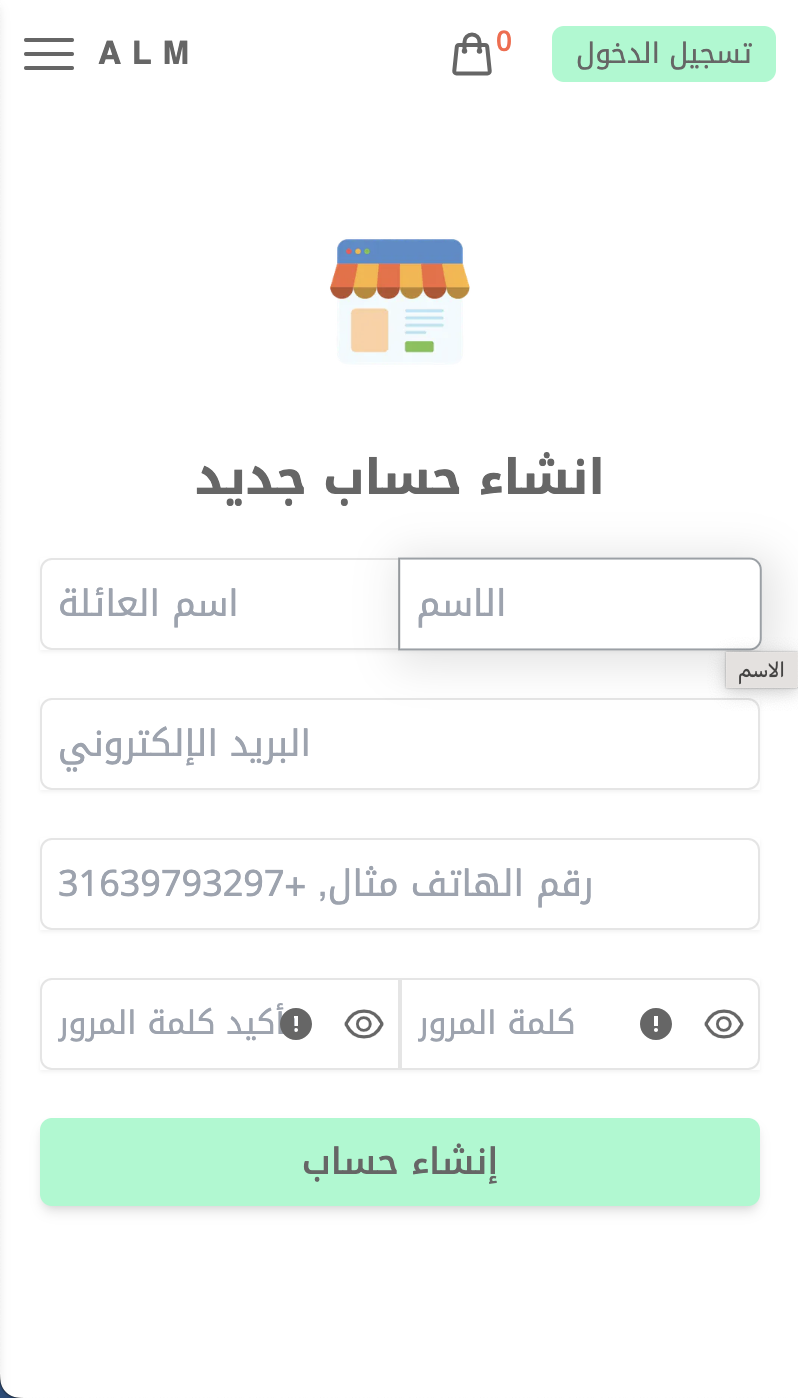
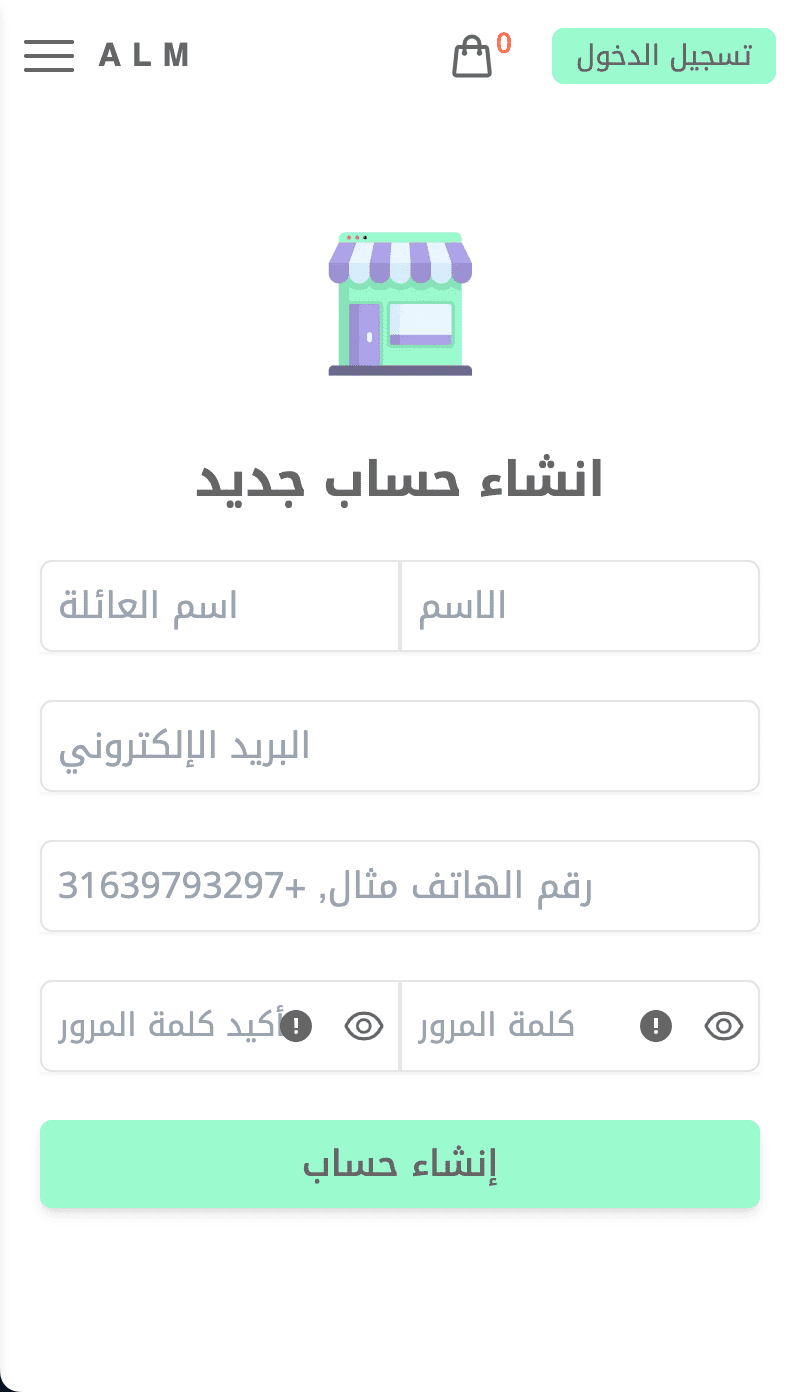
Changed the step-1 image..

diff --git a/frontend/app/(component)/(styled)/svg-icon.js b/frontend/app/(component)/(styled)/svg-icon.js
@@ -27,19 +27,35 @@ const icons = {
     </svg>
   ),
   cart: (
+    // <svg
+    //   xmlns="http://www.w3.org/2000/svg"
+    //   viewBox="0 0 24 24"
+    //   className="pointer-events-none w-full"
+    //   fill="none"
+    //   strokeWidth="2"
+    //   stroke="currentColor"
+    //   aria-hidden="true">
+    //   <path
+    //     strokeLinecap="round"
+    //     strokeLinejoin="round"
+    //     d="M15.75 10.5V6a3.75 3.75 0 10-7.5 0v4.5m11.356-1.993l1.263 12c.07.665-.45 1.243-1.119 1.243H4.25a1.125 1.125 0 01-1.12-1.243l1.264-12A1.125 1.125 0 015.513 7.5h12.974c.576 0 1.059.435 1.119 1.007zM8.625 10.5a.375.375 0 11-.75 0 .375.375 0 01.75 0zm7.5 0a.375.375 0 11-.75 0 .375.375 0 01.75 0z"
+    //   />
+    // </svg>
+
     <svg
       xmlns="http://www.w3.org/2000/svg"
-      viewBox="0 0 24 24"
+      viewBox="0 0 20 20"
       className="pointer-events-none w-full"
       fill="none"
-      strokeWidth="2"
+      strokeWidth="1.5"
       stroke="currentColor"
+      strokeLinecap="round"
+      strokeLinejoin="round"
       aria-hidden="true">
-      <path
-        strokeLinecap="round"
-        strokeLinejoin="round"
-        d="M15.75 10.5V6a3.75 3.75 0 10-7.5 0v4.5m11.356-1.993l1.263 12c.07.665-.45 1.243-1.119 1.243H4.25a1.125 1.125 0 01-1.12-1.243l1.264-12A1.125 1.125 0 015.513 7.5h12.974c.576 0 1.059.435 1.119 1.007zM8.625 10.5a.375.375 0 11-.75 0 .375.375 0 01.75 0zm7.5 0a.375.375 0 11-.75 0 .375.375 0 01.75 0z"
-      />
+      <circle cx="8.6" cy="16.9" r="1.5" />
+      <circle cx="15.6" cy="16.9" r="1.5" />
+      <path d="m2.1,1.9l2,0l3.5,11l8,0" />
+      <path d="m6.82,10.4l-1.92,-6l12.51,0c0.34,0 0.58,0.33 0.47,0.66l-1.67,5c-0.06,0.2 -0.26,0.34 -0.47,0.34l-8.92,0z" />
     </svg>
   ),
   bell: (

diff --git a/frontend/app/(layout)/navigation.js b/frontend/app/(layout)/navigation.js
@@ -109,7 +109,7 @@ export default function Navigation() {
       <div className="flex items-center justify-end flex-auto">
         <Link passHref legacyBehavior href="/cart">
           <a className="relative flex mr-2">
-            <span className="w-6 md:w-7 hover:text-lt dark:hover:text-bg duration-200">
+            <span className="w-8 md:w-7 hover:text-lt dark:hover:text-bg duration-200">
               <SvgIcon name="cart" />
             </span>
             <span id="nav-cart" className="text-sm font-medium text-red -mt-1">

diff --git a/frontend/tailwind.config.js b/frontend/tailwind.config.js
@@ -14,7 +14,7 @@ module.exports = {
       // testbg: "linear-gradient(to bottom right, #9bface, #b26cfc)",
       // hpbg: "radial-gradient(#b8f5d9, #ffffff)",
       pc: "#9bface", // Primary Color // #cbf7f2 // #b2ebf9
-      pc2: "#b26cfc", // #aea1ea
+      pc2: "#aea1ea", // #aea1ea
       bg: "#ffffff", // Background & Dark Title Color
       lbg: "#e5e7eb", //f9fafb Light Background
       dbg: "#121212", // Dark Background

diff --git a/frontend/public/service-worker.js b/frontend/public/service-worker.js
@@ -1,6 +1,6 @@
 // self.importScripts('foo.js', 'bar.js');
 
-const staticFileCacheName = "static-files-v-6";
+const staticFileCacheName = "static-files-v-7";
 // const filesMustCache = /(googleapis|gstatic)|\.(JS|CSS|SVG|PNG|JPG|jPEG|GIF|ICO|JSON)$/gim;
 const staticFileCachePaths = [
   "/",
